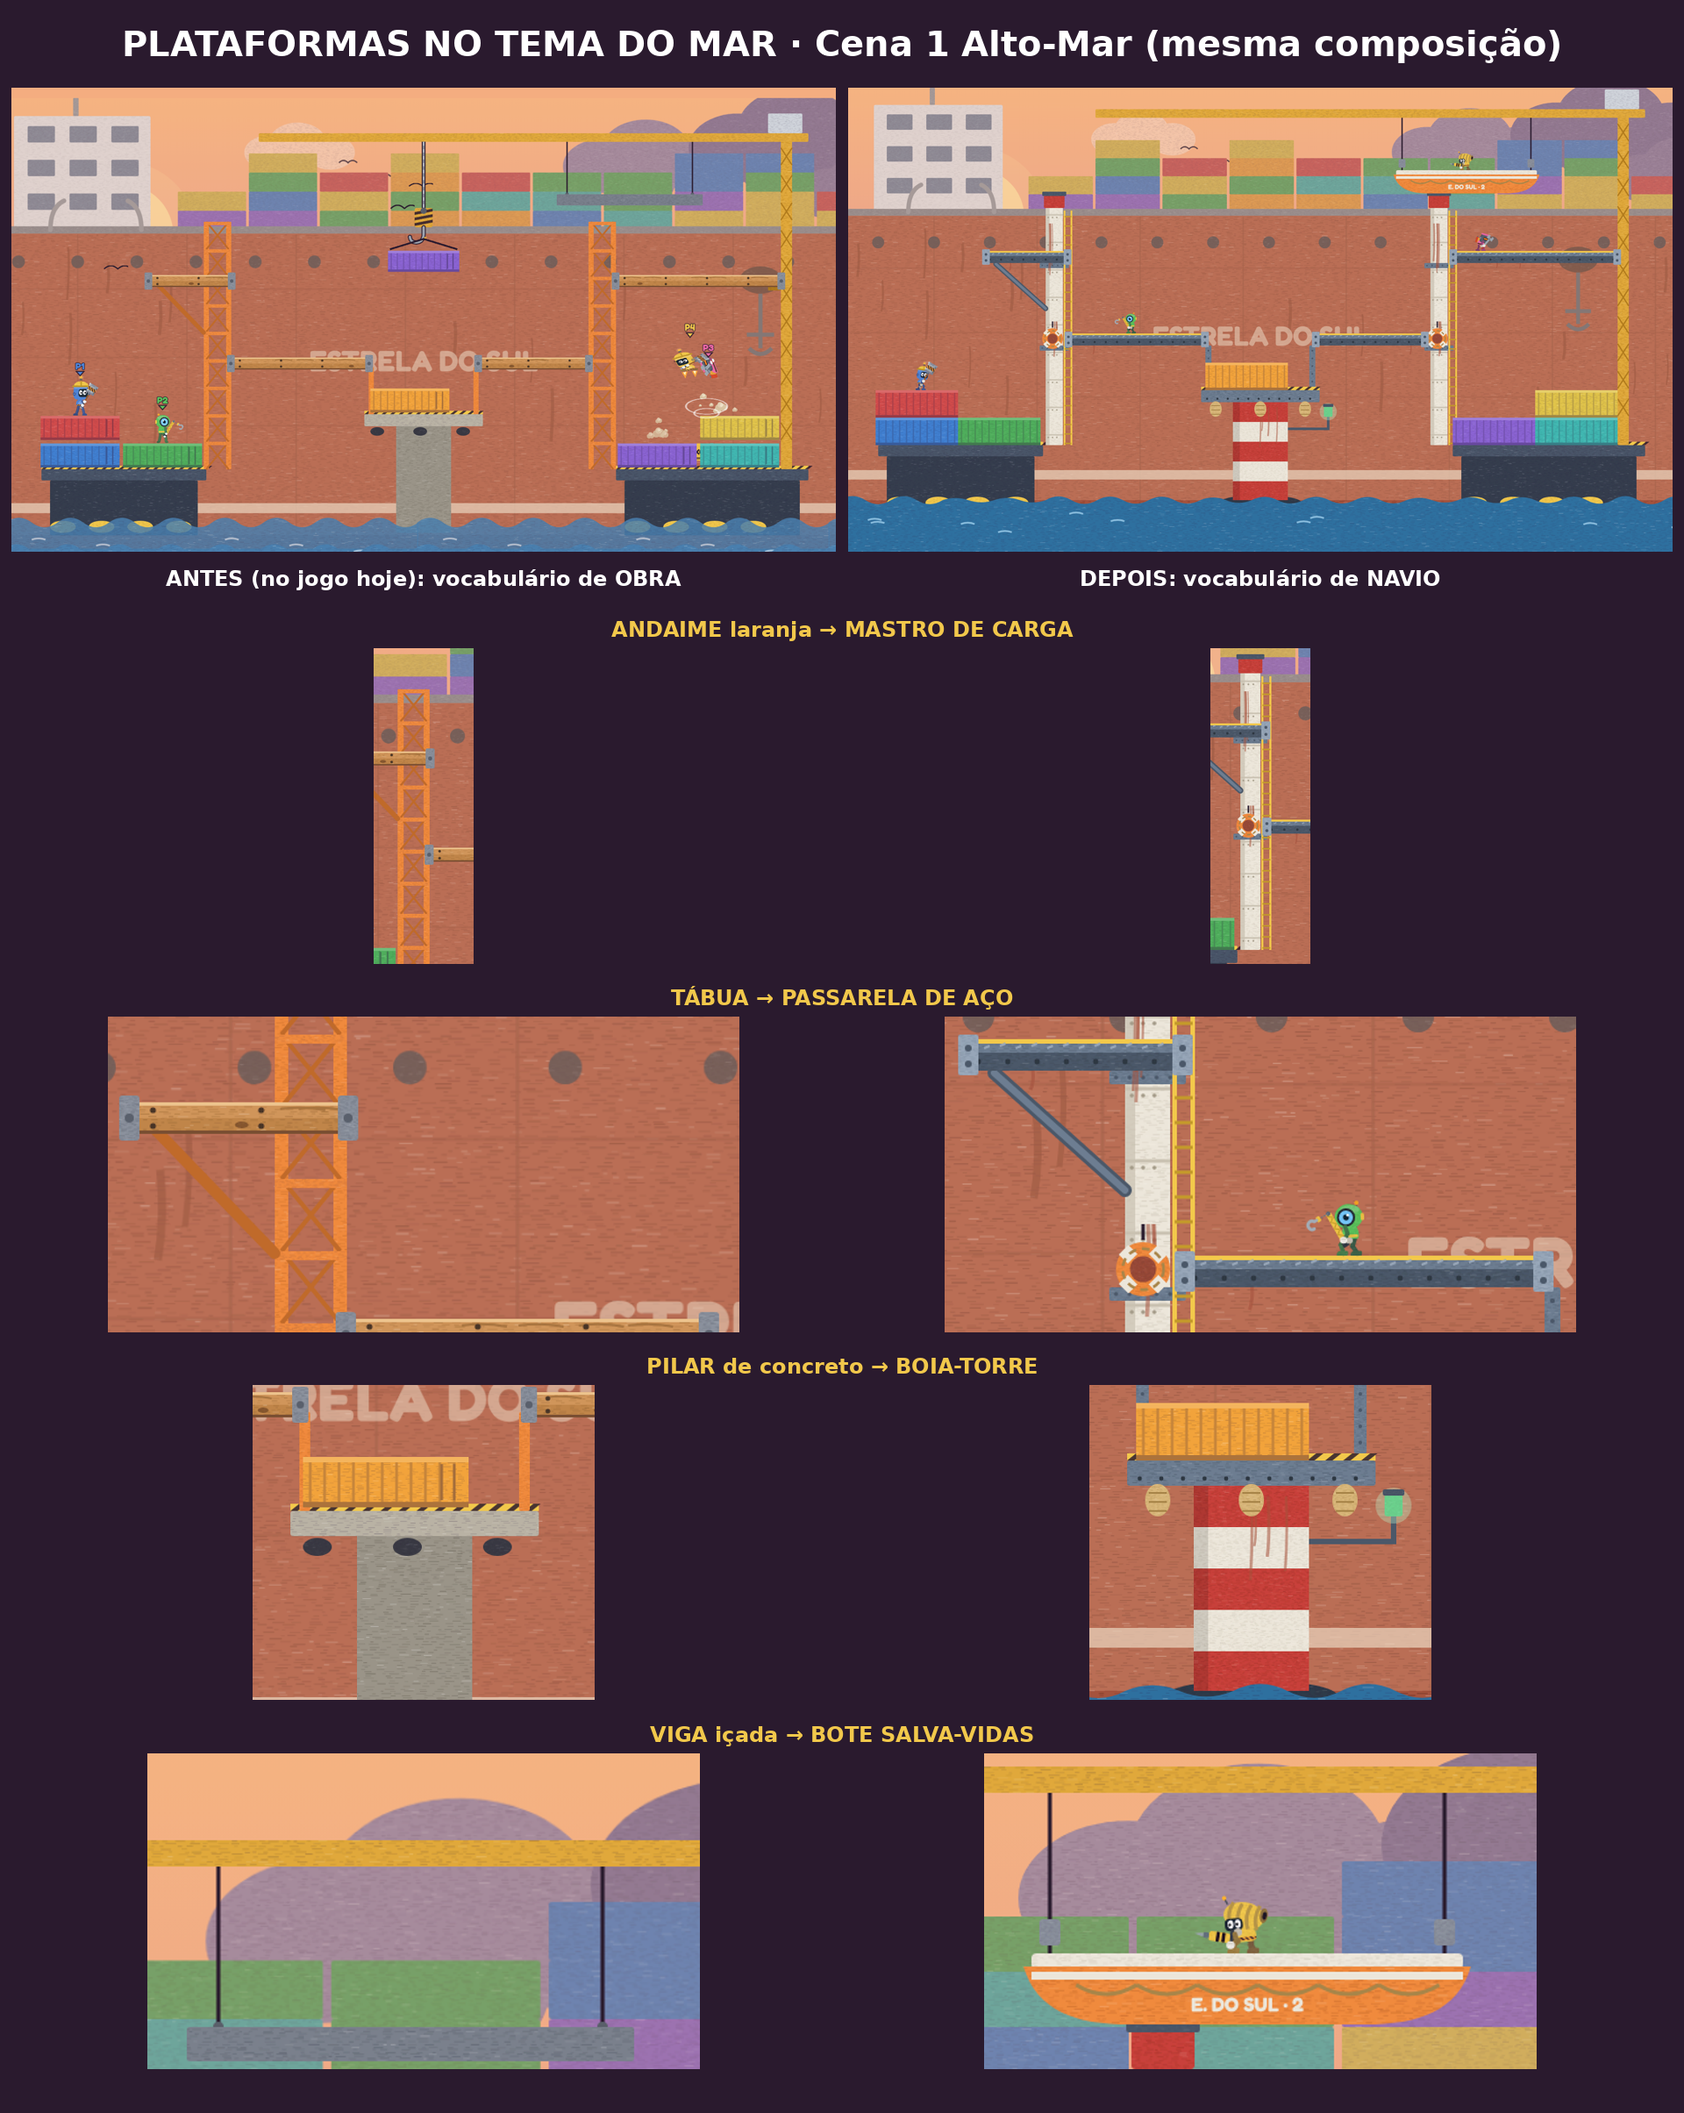
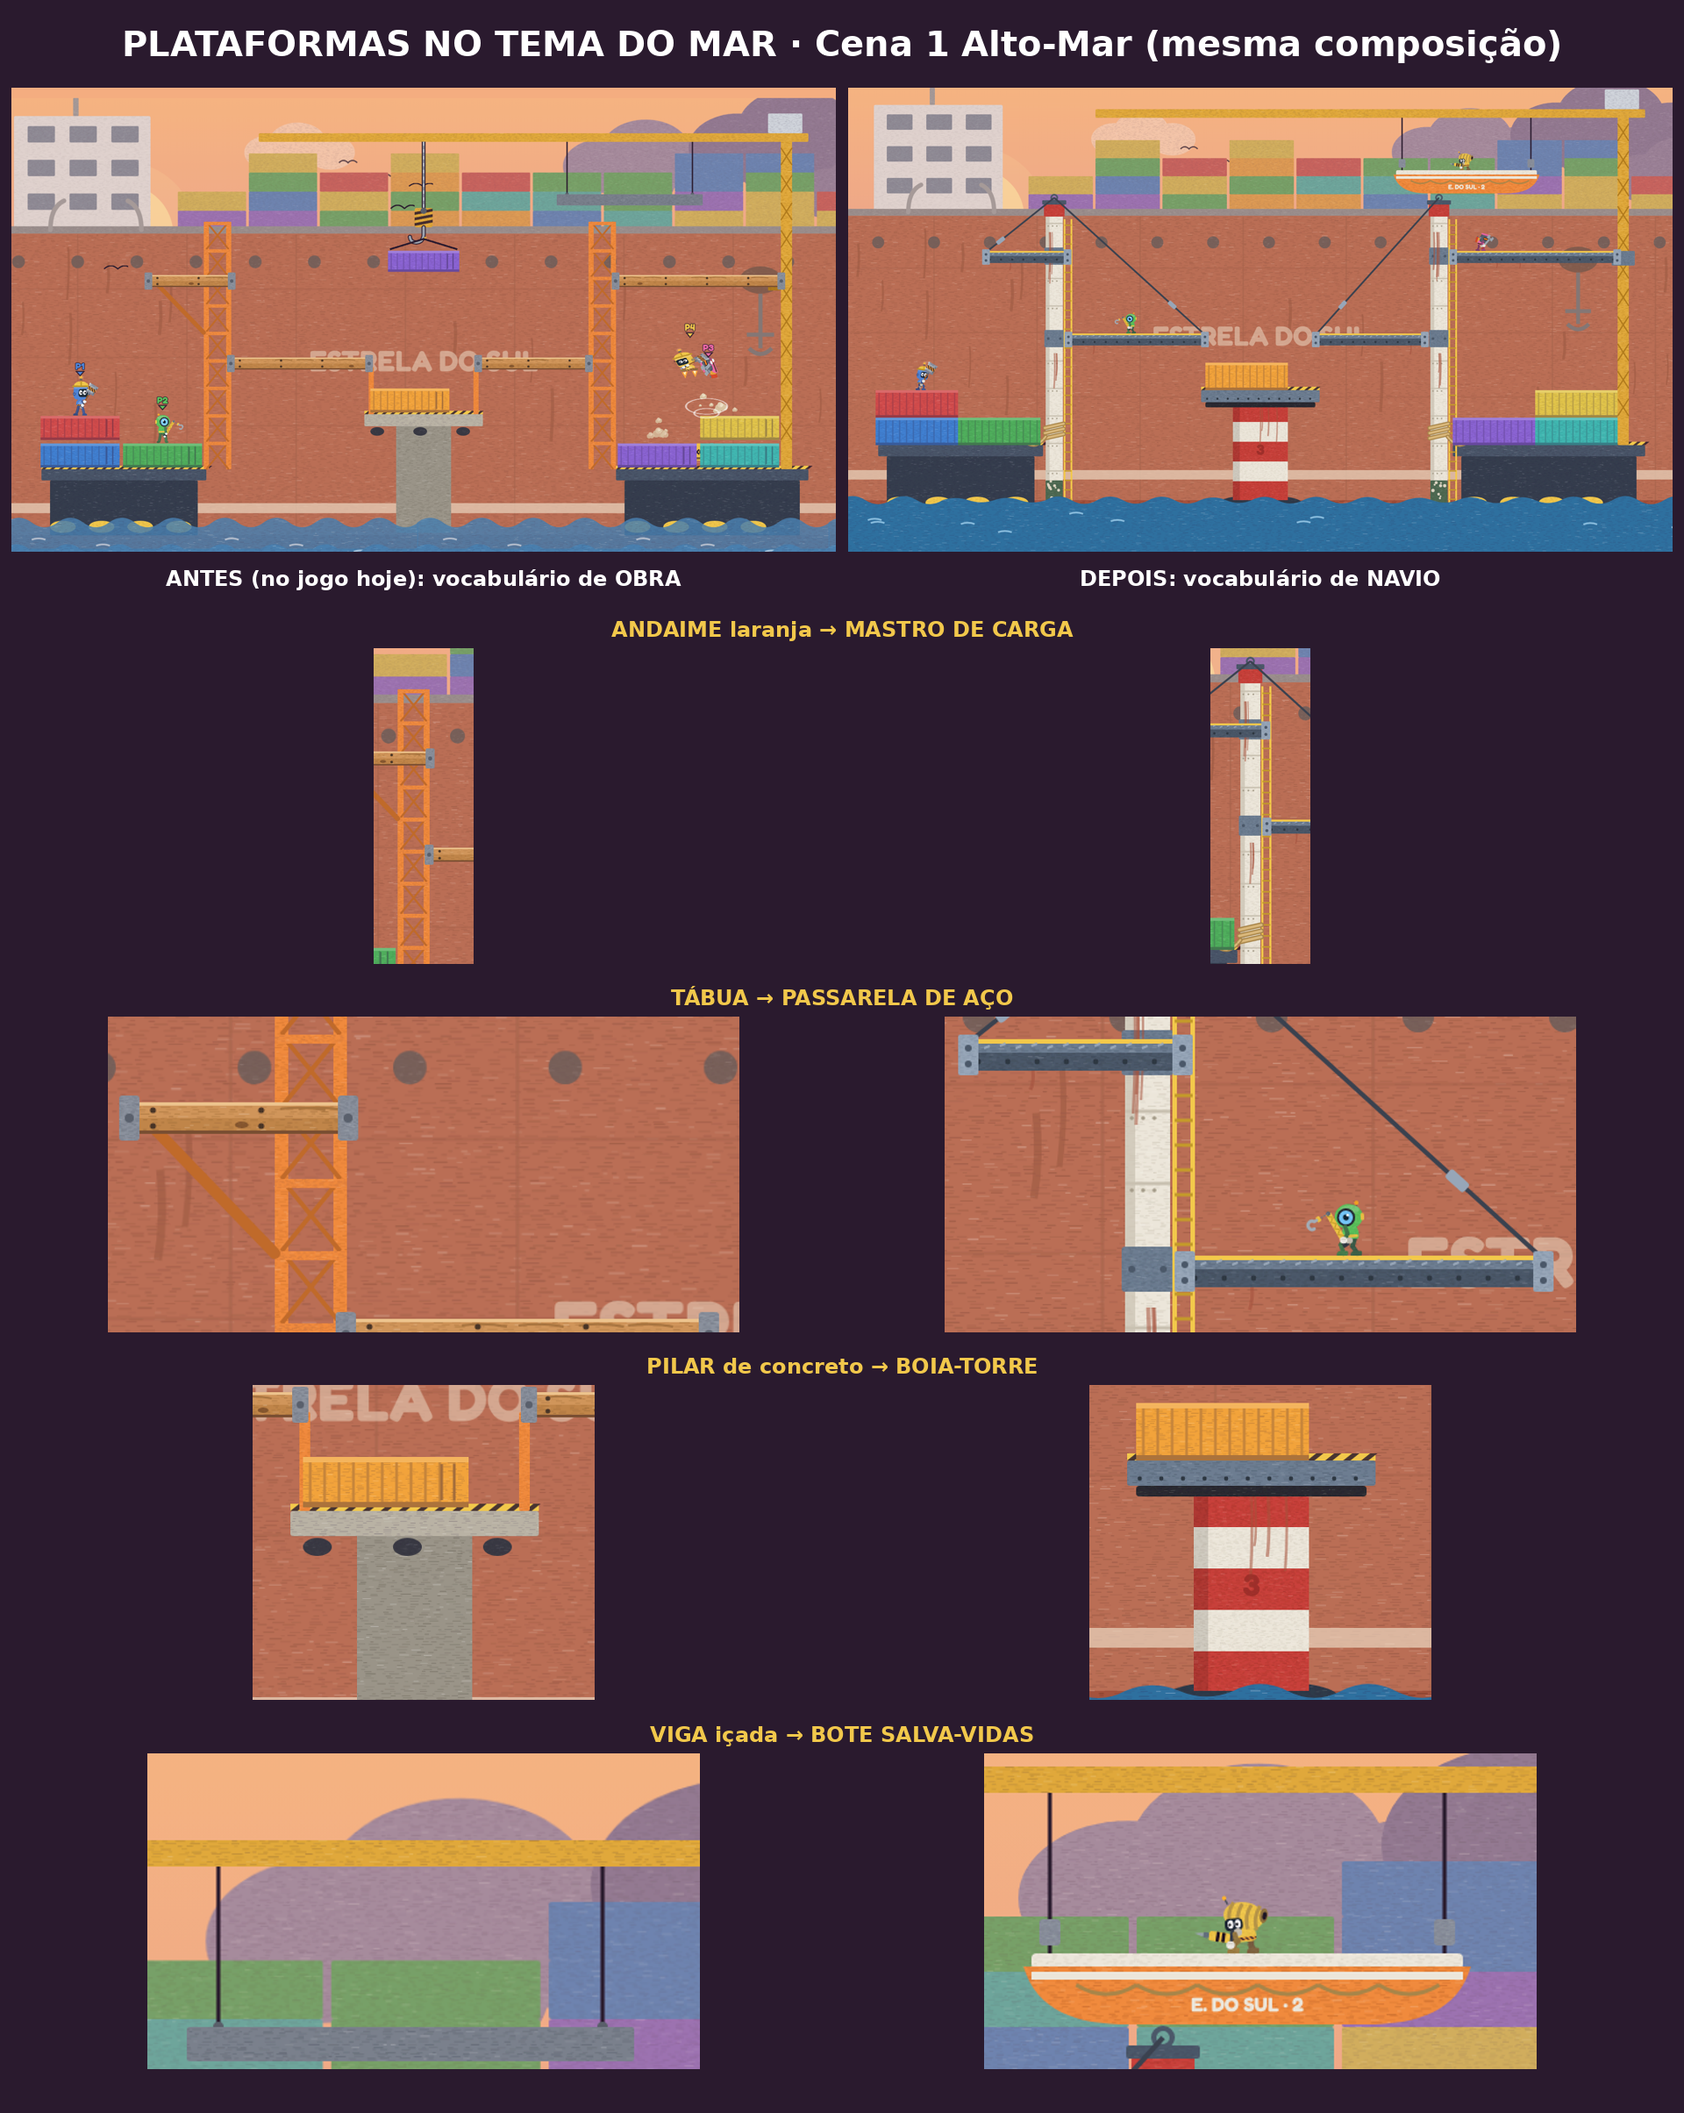
Fase 2: plataformas da cena 1 v2 — sustentação legível (postes no mar, amarras, estais) + regra no manual de mapa
Claude-Session: https://claude.ai/code/session_018QUPBQj4sLX3w64QQJCiVt

diff --git a/art/src/cenarios/f2_plataformas.py b/art/src/cenarios/f2_plataformas.py
@@ -46,26 +46,56 @@ def ferrugem(x, y, n, alt, seed, larg=6):
     return o
 
 
-def mastro(x, y_top, y_bot, niveis=(6 * T, 9 * T), seed=1):
-    """MASTRO DE CARGA (fixo, no lugar do andaime de 64 px): coluna de aço branca, capitel vermelho, cruzetas onde as
-    passarelas encostam, escada de marinheiro do lado, rebites, ferrugem escorrendo e uma boia salva-vidas."""
+def mastro(x, y_top, niveis=(), seed=1):
+    """POSTE DE ATRACAÇÃO (fixo, no lugar do andaime): coluna de aço branca cravada no MAR (nasce da água, com a faixa
+    molhada de limo e cracas), capitel vermelho com olhal para os estais, abraçadeiras onde as passarelas prendem, escada
+    de marinheiro até a água, ferrugem escorrendo e boia salva-vidas. A balsa ao lado fica amarrada nele."""
     cx = x + 32
+    y_bot = MAR1 + 24
     o = R(cx - 20, y_top, 40, y_bot - y_top, BRANCO, 3, 1.4, dark=BRANCO_D)
     o += f'<rect x="{cx - 20}" y="{y_top}" width="9" height="{y_bot - y_top}" fill="{BRANCO_D}" opacity="0.7"/>'
-    o += R(cx - 24, y_top - 6, 48, 30, VERM, 3, 1.0, dark=VERM_D)                      # capitel vermelho
+    o += R(cx - 20, MAR1 - 46, 40, 70, "#4f6a52", 2, 1.0, dark="#3a5040")                 # limo na linha d'água
+    rnd = random.Random(seed)
+    for _ in range(9):                                                                    # cracas
+        o += f'<circle cx="{cx + rnd.uniform(-15, 15):.1f}" cy="{MAR1 - rnd.uniform(4, 44):.1f}" r="{rnd.uniform(2, 4):.1f}" fill="#d9d2c0"/>'
+    o += R(cx - 24, y_top - 6, 48, 30, VERM, 3, 1.0, dark=VERM_D)                         # capitel vermelho
     o += R(cx - 28, y_top - 14, 56, 10, ACO_D, 2, 0.8)
-    for yy in range(int(y_top) + 40, int(y_bot) - 10, 64):                            # costuras com rebites
+    o += f'<circle cx="{cx}" cy="{y_top - 20}" r="7" fill="none" stroke="{ACO_D}" stroke-width="4"/>'   # olhal dos estais
+    for yy in range(int(y_top) + 40, int(MAR1) - 60, 64):                                # costuras com rebites
         o += f'<path d="M{cx - 20},{yy} h40" stroke="{BRANCO_D}" stroke-width="3"/>' + rebites(cx - 14, yy + 6, cx + 16, 10, 1.8, "#a59c8a")
-    for yv in niveis:                                                                  # cruzetas de apoio
-        if y_top < yv < y_bot:
-            o += R(cx - 34, yv + 24, 68, 12, ACO, 2, 0.8, dark=ACO_D) + rebites(cx - 28, yv + 30, cx + 32, 12, 1.8)
-    lx = cx + 24                                                                       # escada de marinheiro
-    o += f'<path d="M{lx},{y_top + 30} V{y_bot} M{lx + 16},{y_top + 30} V{y_bot}" stroke="{YEL}" stroke-width="4"/>'
-    for yy in range(int(y_top) + 44, int(y_bot), 22):
+    for yv in niveis:                                                                     # abraçadeiras das passarelas
+        o += R(cx - 23, yv - 8, 46, 40, ACO, 3, 0.8, dark=ACO_D) + f'<circle cx="{cx - 14}" cy="{yv + 12}" r="3" fill="{ACO_D}"/><circle cx="{cx + 14}" cy="{yv + 12}" r="3" fill="{ACO_D}"/>'
+    lx = cx + 24                                                                          # escada de marinheiro até a água
+    o += f'<path d="M{lx},{y_top + 30} V{MAR1 + 10} M{lx + 16},{y_top + 30} V{MAR1 + 10}" stroke="{YEL}" stroke-width="4"/>'
+    for yy in range(int(y_top) + 44, int(MAR1) + 6, 22):
         o += f'<path d="M{lx},{yy} h16" stroke="#c49a2a" stroke-width="3"/>'
-    o += ferrugem(cx - 6, y_top + 60, 4, 120, seed) + ferrugem(cx + 4, (y_top + y_bot) / 2, 3, 90, seed + 7)
-    by = (y_top + y_bot) / 2 + 40
-    o += f'<path d="M{cx - 4},{by - 40} L{cx - 4},{by - 26}" stroke="{INK}" stroke-width="3"/>' + boia(cx - 4, by, 24)
+    o += ferrugem(cx - 6, y_top + 60, 4, 120, seed) + ferrugem(cx + 4, (y_top + MAR1) / 2, 3, 90, seed + 7)
+    return o
+
+
+def estai(x0, y0, x1, y1):
+    """Cabo de aço tensionado (estai) do olhal do poste até a ponta da passarela, com esticador e manilhas."""
+    import math
+    L = math.hypot(x1 - x0, y1 - y0)
+    ux, uy = (x1 - x0) / L, (y1 - y0) / L
+    ex, ey = x0 + ux * L * 0.78, y0 + uy * L * 0.78
+    ang = math.degrees(math.atan2(uy, ux))
+    return (f'<path d="M{x0},{y0} L{x1},{y1}" stroke="#3a4250" stroke-width="4"/>'
+            f'<rect x="-11" y="-5" width="22" height="10" rx="3" fill="{ACO_L}" transform="translate({ex:.1f},{ey:.1f}) rotate({ang:.1f})"/>'
+            f'<circle cx="{x1}" cy="{y1}" r="5" fill="{ACO_D}"/>')
+
+
+def amarra(cx, y, lado):
+    """Cabo de amarração: 3 voltas de corda no poste e o cabo descendo até o cunho da balsa (lado = -1 balsa à esquerda)."""
+    o = ""
+    for k in range(3):
+        yy = y + k * 12
+        o += f'<path d="M{cx - 22},{yy + 6} L{cx + 22},{yy - 4}" stroke="{CORDA_D}" stroke-width="10" stroke-linecap="round"/>'
+        o += f'<path d="M{cx - 22},{yy + 6} L{cx + 22},{yy - 4}" stroke="{CORDA}" stroke-width="5" stroke-linecap="round"/>'
+    bx = cx + lado * 70
+    o += f'<path d="M{cx + lado * 20},{y + 26} Q{cx + lado * 46},{y + 60} {bx},{y + 34}" stroke="{CORDA_D}" stroke-width="9" fill="none" stroke-linecap="round"/>'
+    o += f'<path d="M{cx + lado * 20},{y + 26} Q{cx + lado * 46},{y + 60} {bx},{y + 34}" stroke="{CORDA}" stroke-width="4" fill="none" stroke-dasharray="7 4" stroke-linecap="round"/>'
+    o += R(bx - 12, y + 28, 24, 10, ACO_D, 3, 0.4)   # cunho na balsa
     return o
 
 
@@ -130,13 +160,8 @@ def boia_torre(x0, x1, topo):
     o += ferrugem(cx + 20, topo + 40, 4, 110, 21, 30)
     o += R(x0, topo, x1 - x0, 28, ACO, 3, 1.4, dark=ACO_D) + zebra(x0, topo - 8, x1 - x0, 8)   # convés da boia
     o += rebites(x0 + 14, topo + 20, x1 - 8, 24, 2.4, "#2f3843")
-    for k in range(3):                                                                  # defensas de corda
-        fx = x0 + 34 + k * ((x1 - x0 - 68) / 2)
-        o += E(fx, topo + 44, 14, 18, CORDA, 0.8, dark=CORDA_D) + f'<path d="M{fx - 10},{topo + 36} h20 M{fx - 10},{topo + 46} h20 M{fx - 10},{topo + 56} h20" stroke="{CORDA_D}" stroke-width="2"/>'
-    ax = x1 - 6                                                                         # braço com lanterna
-    o += f'<path d="M{cx + cw / 2},{topo + 90} L{ax + 26},{topo + 90} V{topo + 60}" stroke="{ACO_D}" stroke-width="6" fill="none"/>'
-    o += R(ax + 16, topo + 38, 20, 24, "#3fbf6a", 3, 0.6) + f'<circle cx="{ax + 26}" cy="{topo + 50}" r="20" fill="#bff7cf" opacity="0.35"/>'
-    o += R(ax + 14, topo + 32, 24, 7, ACO_D, 2, 0.4)
+    o += R(x0 + 10, topo + 28, x1 - x0 - 20, 12, "#2a2a30", 4, 0.8)                         # defensa de borracha
+    o += f'<text x="{cx}" y="{topo + 150}" font-family="Fredoka" font-weight="700" font-size="34" fill="{VERM_D}" text-anchor="middle" opacity="0.8">3</text>'
     return o
 
 
@@ -159,17 +184,25 @@ def bote(x0, x1, y_topo, y_cabo):
 
 # ---------------------------------------------------------------- palco e peças da cena 1 (mesma composição de hoje)
 def e1_palco_mar():
+    """Lógica de sustentação (pedido do usuário: "a composição dos elementos não faz sentido"): TUDO que fica em pé tem
+    apoio visível — postes e boia nascem do MAR, as balsas boiam amarradas nos postes, as passarelas presas no poste por
+    abraçadeira e seguradas na outra ponta por ESTAIS (cabo de aço do topo do poste) ou pela torre da grua; o bote pende
+    da lança. Nada de escora apoiada na boia."""
+    yt = 4 * T + 20
+    L, Rr = 7 * T + 32, 21 * T + 32          # eixo dos postes
     o = fp.balsa(70, 6 * T) + fp.balsa(22 * T, 7 * T)
     o += boia_torre(13 * T - 10, 17 * T + 10, 11 * T)
-    o += mastro(7 * T, 4 * T, 13 * T, seed=3) + mastro(21 * T, 4 * T, 13 * T, seed=5)
+    o += mastro(7 * T, yt, niveis=(6 * T - 4, 9 * T - 4), seed=3) + mastro(21 * T, yt, niveis=(6 * T - 4, 9 * T - 4), seed=5)
     o += R(28 * T, 1 * T, 26, 12 * T, "#e0a83a", 3, 1.6, dark="#b07a1e")              # torre da grua da balsa (já é do navio)
     for k in range(11):
         y = T + 20 + k * 64
         o += f'<path d="M{28 * T},{y} l26,40 M{28 * T + 26},{y} l-26,40" stroke="#b07a1e" stroke-width="3"/>'
     o += R(9 * T, 1 * T - 14, 20 * T, 20, "#e0a83a", 3, 1.4) + R(28 * T - 30, 1 * T - 60, 80, 46, "#cfd3da", 3, 1.2)
+    o += R(28 * T - 14, 6 * T - 4, 54, 34, ACO, 3, 0.8, dark=ACO_D)                     # mão da grua segurando a passarela alta
     o += sign(23 * T, 13 * T - 60, "BOTA-ABAIXO", 170)
-    o += montante(13 * T, 9 * T + 24, 11 * T - 8) + montante(17 * T - 14, 9 * T + 24, 11 * T - 8)
-    o += console(7 * T + 12, 6 * T + 130, 5 * T + 24, 6 * T + 26)
+    o += estai(L, yt - 20, 13 * T, 9 * T) + estai(Rr, yt - 20, 17 * T, 9 * T)            # pontas de dentro do nível 9
+    o += estai(L, yt - 20, 5 * T, 6 * T)                                                  # ponta de fora do nível 6 (esq.)
+    o += amarra(L, 13 * T - 46, -1) + amarra(Rr, 13 * T - 46, 1)
     return o
 
 

diff --git a/docs/manuais/derruba/mapa.md b/docs/manuais/derruba/mapa.md
@@ -104,6 +104,10 @@ Para ver: `ROTA=moderada … -- --fase=DIR`. Última cena: sem transição. Regr
       até as QUINAS (ou dois cabos verticais nas PONTAS); peça apoiada = as duas pontas tocam algo (torre, coluna, escora, rocha) — senão
       ponha escora/mão-francesa; objeto solto (pneu, caixa, bicho, robô) fica EM CIMA de uma superfície; nada girado "por estilo" com
       o cabo errado. Meça no grid antes de desenhar.
+- [ ] **Vocabulário do tema + sustentação** (reprovado 2× em 2026-11-28 no Cargueiro: andaime/tábua de OBRA no mar; depois postes
+      terminando no ar e escoras em cima da boia): cada estrutura do palco é um objeto do TEMA e tem uma origem de apoio legível —
+      nasce do chão/mar (poste cravado, boia), boia amarrada (balsa), pende de cabo (bote na lança) ou é estaiada (passarela: abraçadeira
+      num poste + estai do topo). Pergunte "o que segura isto?" para cada peça antes de mandar a prancha.
 - [ ] **Palco = plataformas.** A estrutura grande do tema (prédio, navio, templo) é MOLDURA de fundo e não se pisa; a luta é numa
       estrutura aberta: pouca parte fixa (balsas, pilares, torres) e o resto plataforma destrutível (contêineres, tábuas, vigas, peças penduradas).
 - [ ] Renascimento só em **chão firme**; nada de pilar em cima de peça que quebra.
@@ -133,6 +137,7 @@ Para ver: `ROTA=moderada … -- --fase=DIR`. Última cena: sem transição. Regr
 | Mapa feito direto no código, sem pensar a cena | não havia cartilha nem catálogo | ordem do §1: catálogo → prancha → código |
 | Fase 2 (Cargueiro): cabos que não chegavam nas pontas, tábuas com uma ponta no ar, pneus/caranguejo flutuando, coluna em cima de baú | joguei elementos "no olho", sem medir apoio | regra de coerência física no §5; funções `icado`/`pendurada` em `f2_prancha.py` |
 | Fase 2 (Cargueiro): fotografias v1 com piso de ponta a ponta — ninguém caía (sem KO) | desenhei o palco antes de decidir por onde se cai | ao montar CADA cena, primeiro marque as saídas para KO (≥ 2 lados, visíveis: mar, fenda, porão) e só depois o resto |
+| Fase 2 (Cargueiro): plataformas de OBRA (andaime, tábua com braçadeira, pilar com pneus) no alto-mar; na troca, postes acabando no ar | troquei a pele sem repensar o tema nem a sustentação | regra "vocabulário do tema + sustentação" no §5; `art/src/cenarios/f2_plataformas.py` |
 | 3 rodadas de correção depois do playtest | a composição só foi "lida" pelo usuário | checklist do §5 antes de mandar |
 | Evento da biblioteca inútil e travando na fase (drone G09) | evento entrou na lista sem ser provado na fase | bloco E: provar cada evento na fase; senão sai da lista |
 

diff --git a/docs/BASTAO.md b/docs/BASTAO.md
@@ -51,7 +51,7 @@ Este quadro é o que permite outro chat continuar EXATAMENTE de onde o anterior 
     - [ ] M2 gancho (pêndulo com cabo, antecipação puxando, pancada com hitstop)
     - [x] plataformas: usuário respondeu "composição boa, mas o contexto visual não se encaixa no tema" → prancha
       `art/out/fase2/plataformas_cena1.png` (fonte `art/src/cenarios/f2_plataformas.py`, `--prancha`): andaime→mastro de carga,
-      tábua→passarela de aço, pilar→boia-torre, viga→bote salva-vidas — ENVIADA, aguardando aprovação
+      tábua→passarela de aço, pilar→boia-torre, viga→bote salva-vidas. v1 "melhorou muito mas a composição não faz sentido" → v2: postes cravados no mar, balsas amarradas, passarelas estaiadas, sem escoras na boia — ENVIADA, aguardando aprovação
     - [ ] aprovada → levar ao jogo: `f2_jogo.py` (e1_palco ← `f2_plataformas.e1_palco_mar`, _pecas_e1 ← `pecas_mar`), regenerar,
       copiar para `game/assets/cargueiro/`, `--import`, captura; depois ver se Destroços/Atlântida têm o mesmo problema
   - [ ] 3. Cena 2a: prancha M4 maré, M5 boia, M6 rede, M10 tubarão → aprovação → jogo
